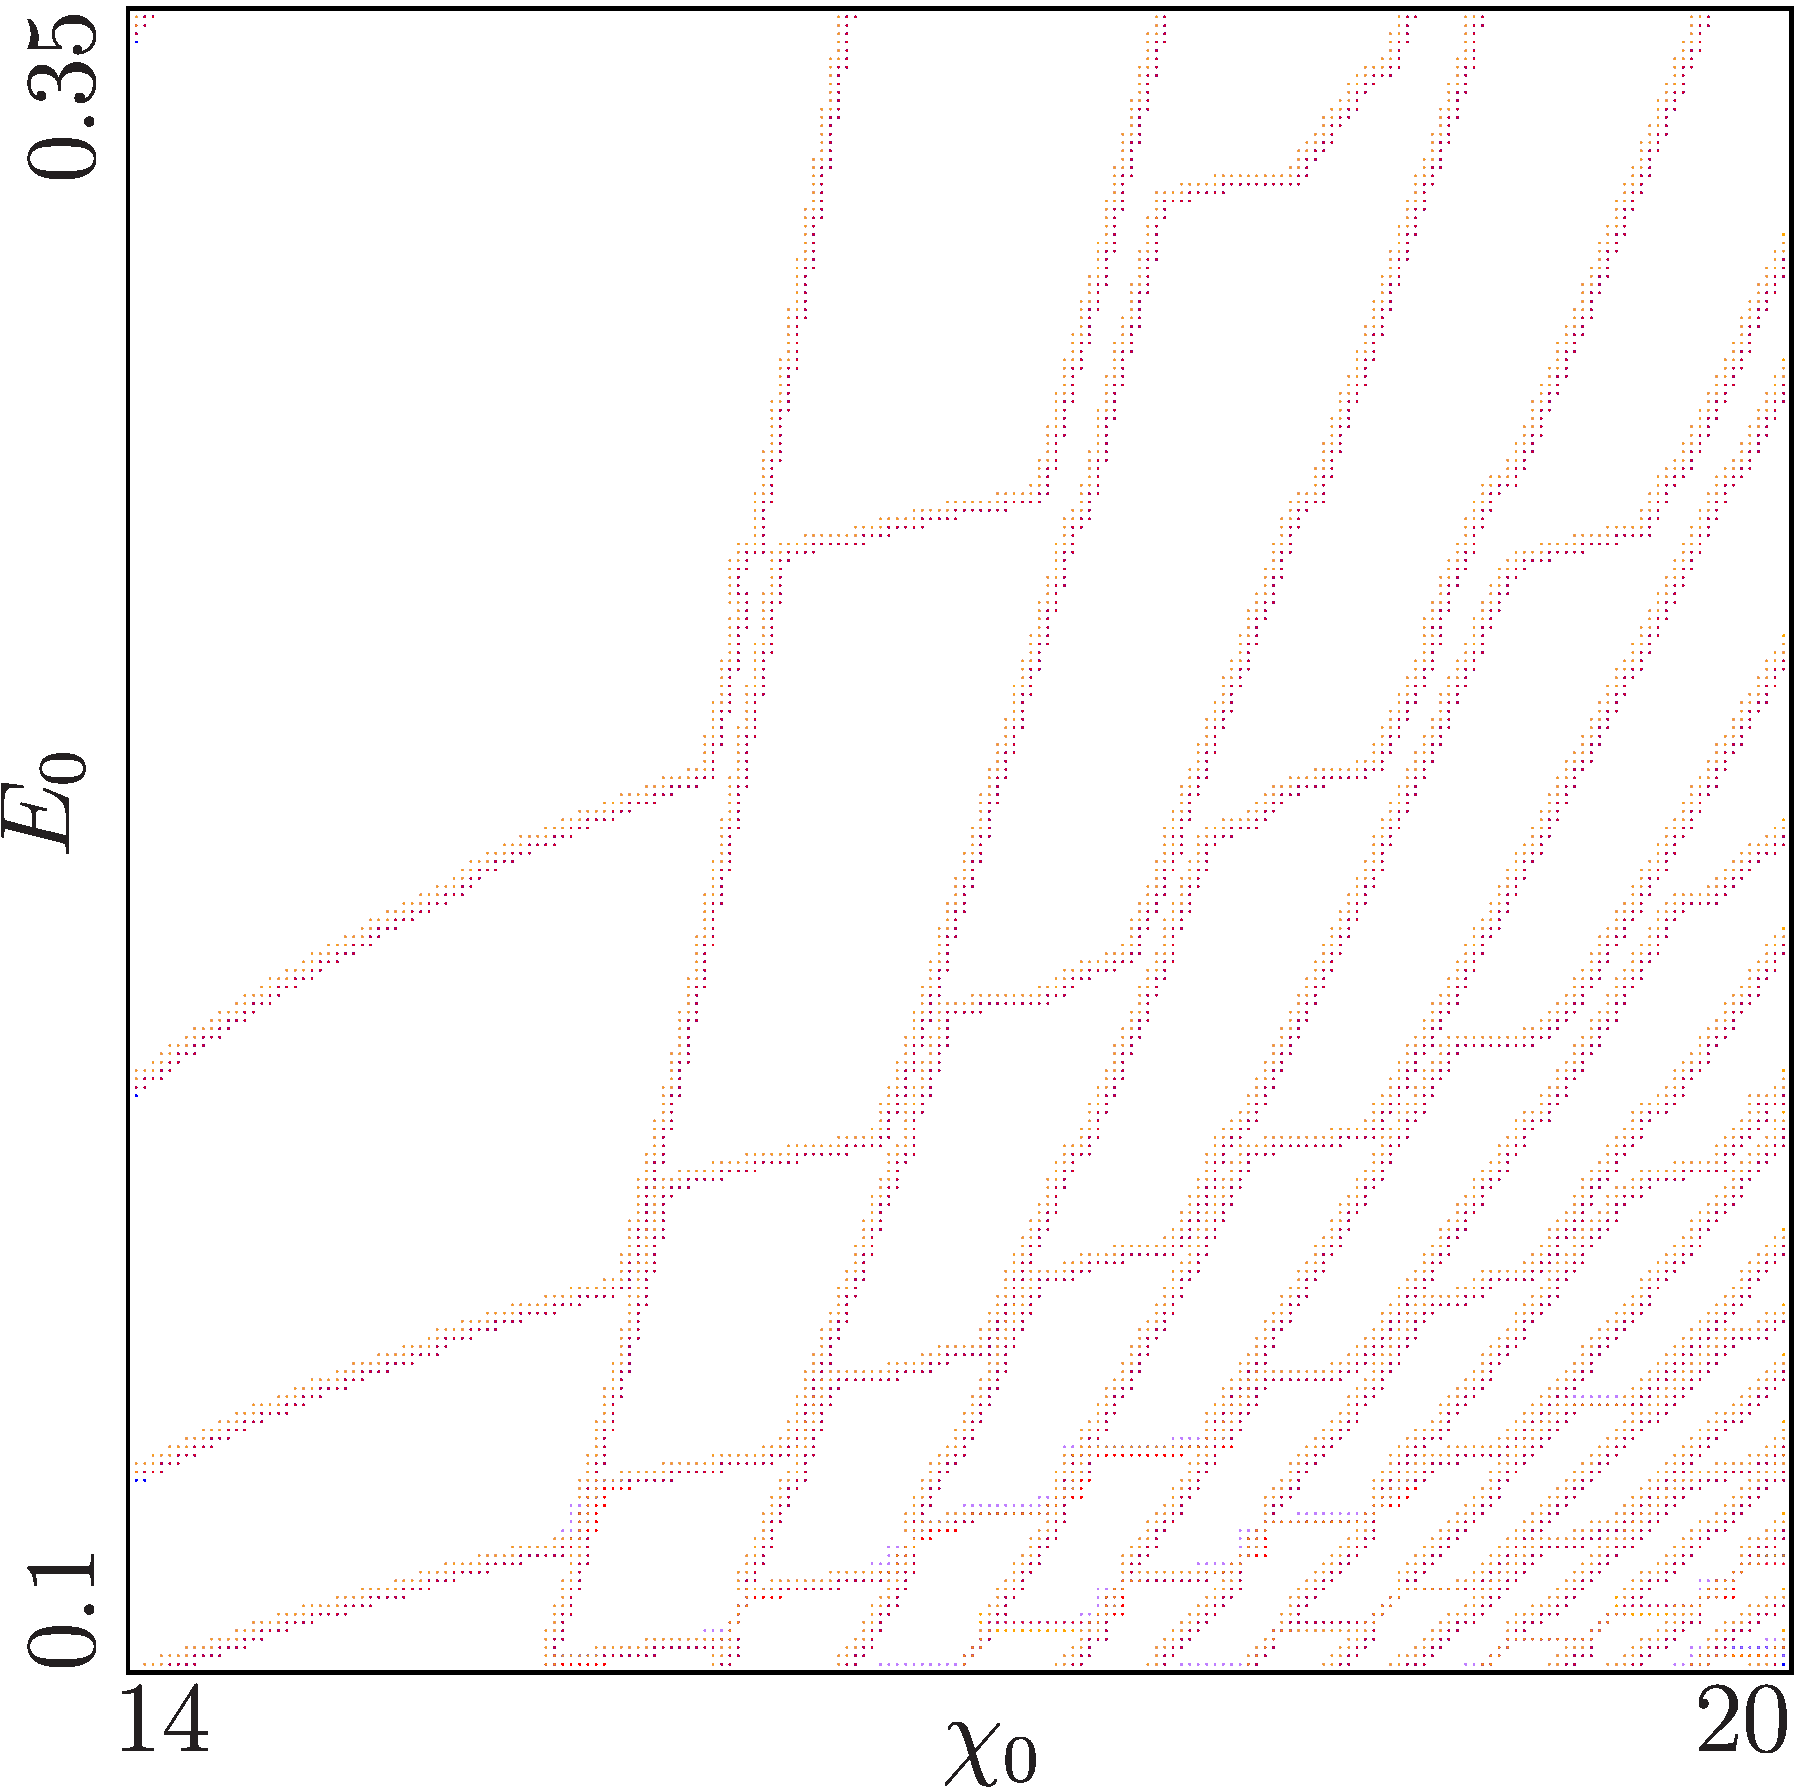
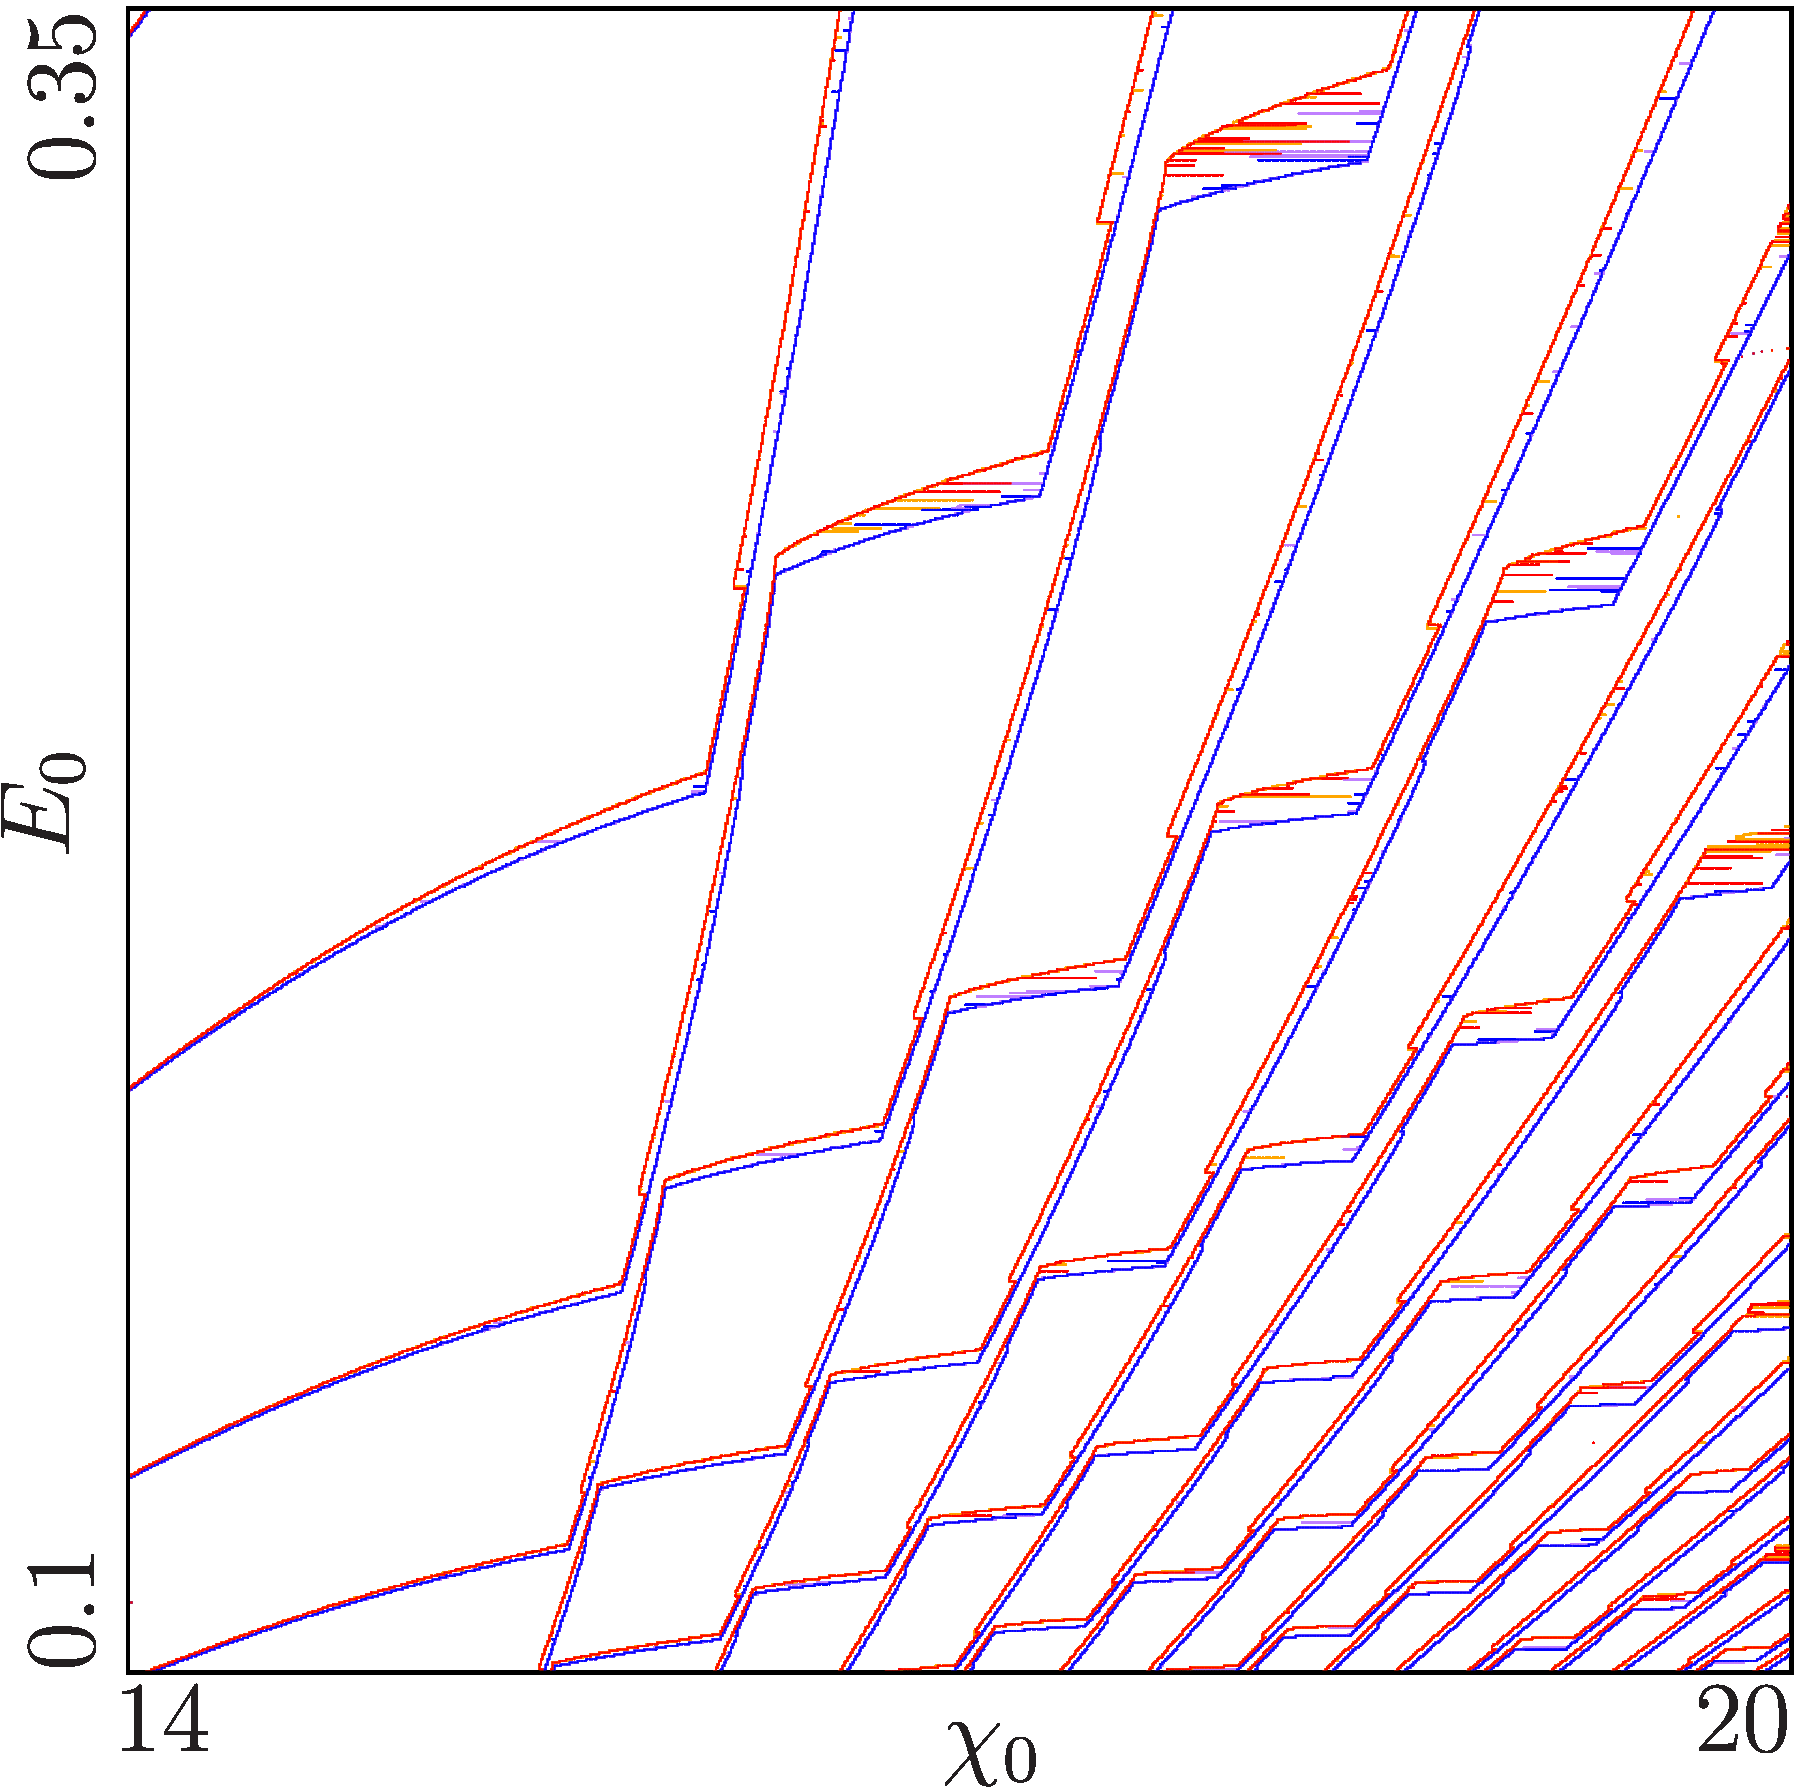
draw first regions diagram

diff --git a/Simulation/execution/composite_plotting.py b/Simulation/execution/composite_plotting.py
@@ -56,10 +56,10 @@ def gnuplot_commands(frames: List[frame.Frame]) -> str:
             raise CustomException(f'Composite picture not supported for type {frames[0].diagram.type}')
 
         return dedent(f'''
-            plot '{get_data_file_paths(frames[0])[0]}' w dots lc rgb 'blue' notitle, \\
-                '{get_data_file_paths(frames[1])[0]}' w dots lc rgb 'purple' notitle, \\
-                '{get_data_file_paths(frames[2])[0]}' w dots lc rgb 'red' notitle, \\
-                '{get_data_file_paths(frames[3])[0]}' w dots lc rgb 'orange' notitle
+            plot '{get_data_file_paths(frames[0])[0]}' w dots lc rgb 'purple' notitle, \\
+                '{get_data_file_paths(frames[1])[0]}' w dots lc rgb 'orange' notitle, \\
+                '{get_data_file_paths(frames[2])[0]}' w dots lc rgb 'blue' notitle, \\
+                '{get_data_file_paths(frames[3])[0]}' w dots lc rgb 'red' notitle
             ''')
 
 def run_composite_gnuplot_program(diagram: Diagram):

diff --git a/Simulation/configuration/ant.py b/Simulation/configuration/ant.py
@@ -53,9 +53,14 @@ def config_dynamical_system_parameters(frame: frame.Frame) -> str:
     return res
 
 def config_dynamical_system_end(frame: frame.Frame) -> str:
+    reset_orbit = 'false'
+    if frame.diagram.reset_orbit \
+        or frame.diagram.type == DiagramType.PERIOD_REGIONS:
+        reset_orbit = 'true'
+
     return f'''    state_space_dimension = 1,
     initial_state = ({frame.diagram.initial}),
-    reset_initial_states_from_orbit = {'false' if frame.diagram.reset_orbit else 'true'},
+    reset_initial_states_from_orbit = {reset_orbit},
     number_of_iterations = {frame.diagram.num_iterations}
 }},
 '''
